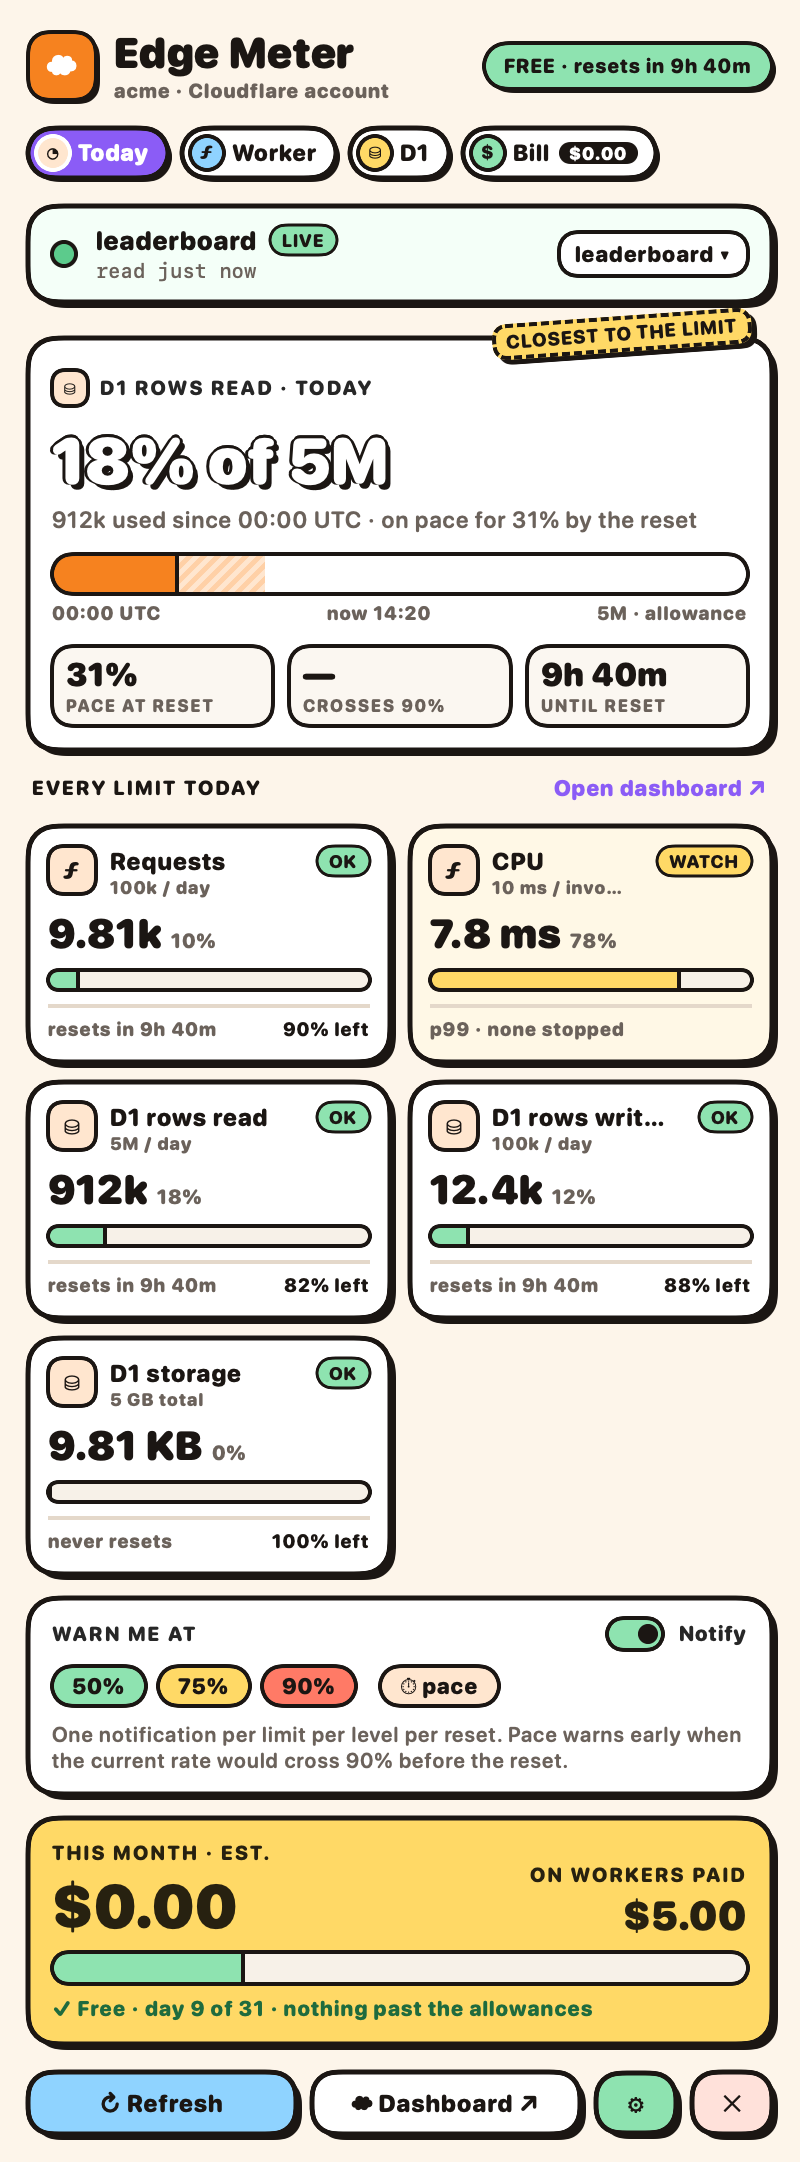
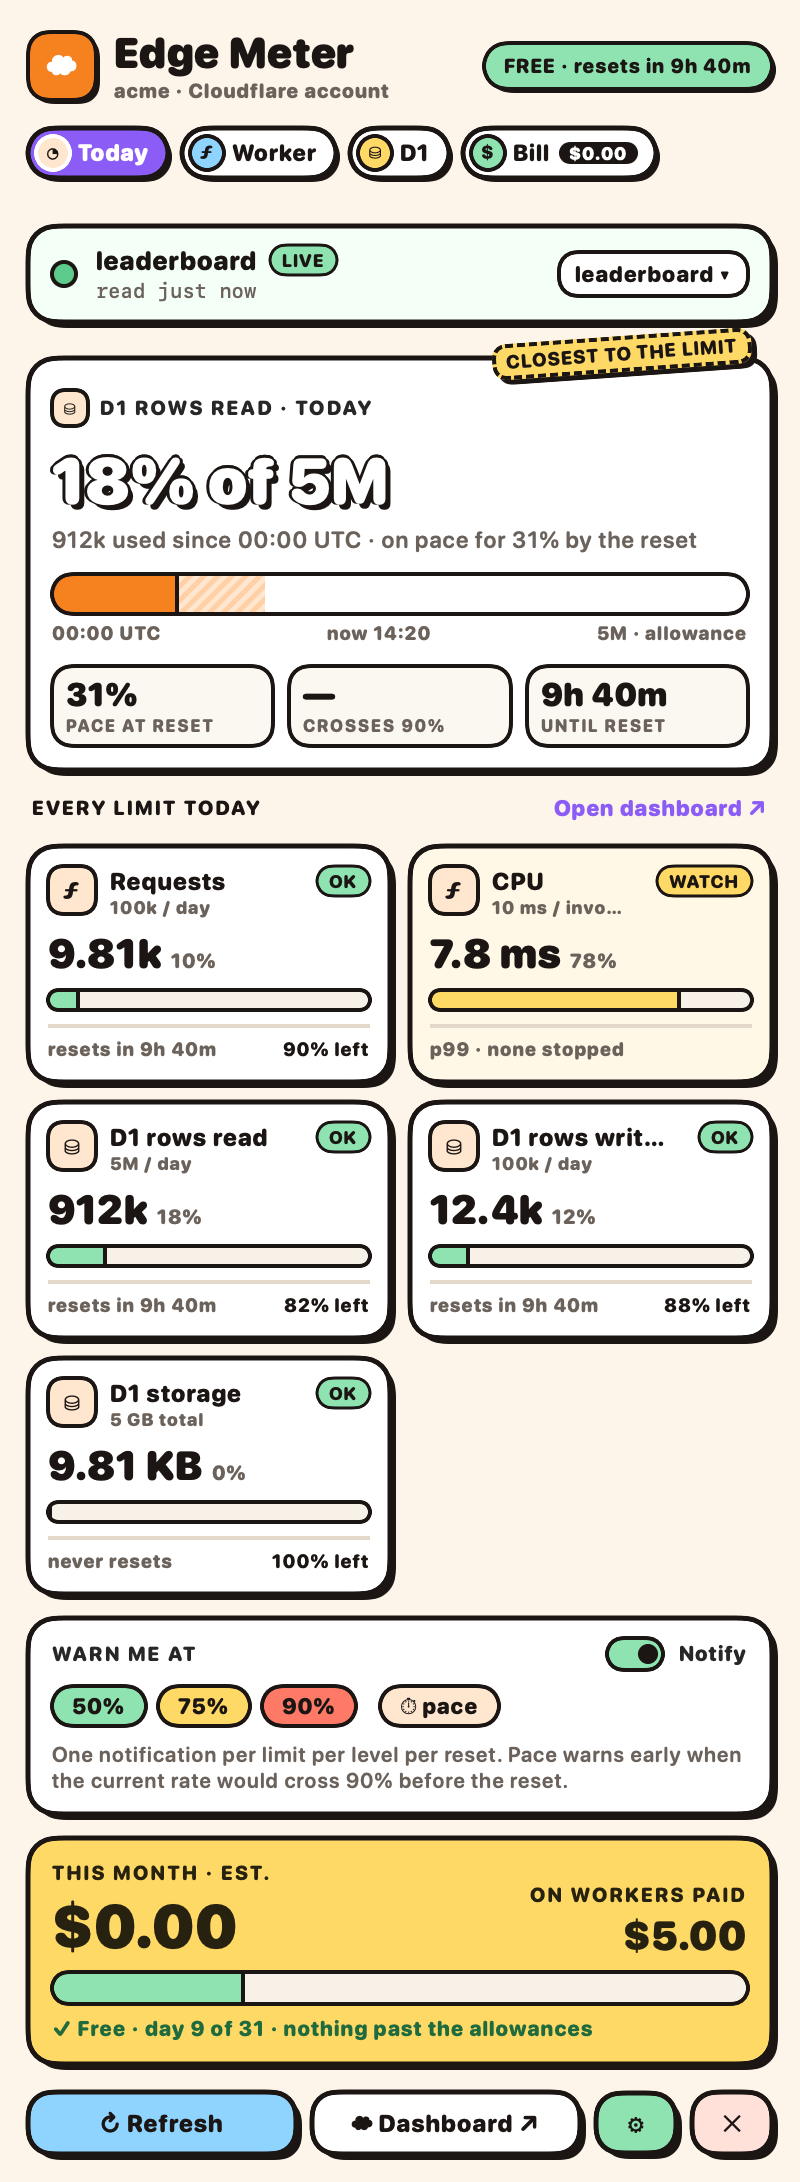
Fix: cards' outlines and shadows no longer clipped by the popover's scroll view

Changed region(s): [[0.0312, 0.031, 0.9688, 0.9917]]

diff --git a/Sources/App/EdgeMeterApp.swift b/Sources/App/EdgeMeterApp.swift
@@ -58,6 +58,9 @@ enum Snapshots {
                 if tab != "today" && tab != "bill" { await account.open(tab, at: Demo.now ?? .now) }
                 write(PopoverView(account: account, tab: tab, scrolls: false), to: folder, name: tab)
             }
+            if ProcessInfo.processInfo.environment["EDGEMETER_LIVE_SHOT"] == "1" {
+                await writeLive(PopoverView(account: account), to: folder, name: "today")
+            }
             let fresh = try! Account(services: .builtIns(), plans: .builtIns(), analytics: DemoCloudflare(), billing: DemoCloudflare(),
                                      vault: MemoryVault(token: nil), settings: MemorySettings(Settings()), notifier: SilentNotifier())
             write(PopoverView(account: fresh, scrolls: false), to: folder, name: "connect")
@@ -68,6 +71,22 @@ enum Snapshots {
             write(PopoverView(account: refused, scrolls: false), to: folder, name: "connect-refused")
             NSApplication.shared.terminate(nil)
         }
+    }
+
+    /// The popover as it really draws, scroll view included, from an offscreen window.
+    static func writeLive(_ view: some View, to folder: String, name: String) async {
+        let host = NSHostingView(rootView: view)
+        let window = NSWindow(contentRect: NSRect(x: -3000, y: 0, width: 400, height: 900), styleMask: [.borderless],
+                              backing: .buffered, defer: false)
+        window.contentView = host
+        host.frame.size = host.fittingSize
+        window.setContentSize(host.fittingSize)
+        window.orderFrontRegardless()
+        try? await Task.sleep(for: .seconds(1.5))
+        guard let rep = host.bitmapImageRepForCachingDisplay(in: host.bounds) else { return }
+        host.cacheDisplay(in: host.bounds, to: rep)
+        try? rep.representation(using: .png, properties: [:])?.write(to: URL(fileURLWithPath: folder).appending(path: "live-\(name).png"))
+        window.orderOut(nil)
     }
 
     static func write(_ view: some View, to folder: String, name: String) {

diff --git a/Sources/App/PopoverView.swift b/Sources/App/PopoverView.swift
@@ -134,16 +134,18 @@ struct CappedScroll<Content: View>: View {
 
     var body: some View {
         if maxHeight == .infinity {
-            content    // screenshots: ImageRenderer draws nothing inside a ScrollView
+            content.padding(.top, 10)    // screenshots: ImageRenderer draws nothing inside a ScrollView
         } else {
-            scroll
+            scroll.padding(.leading, -2).padding(.top, -10)
         }
     }
 
     private var scroll: some View {
         ScrollView(.vertical) {
             content
-                .padding(.trailing, 4).padding(.bottom, 4)
+                // Room for the cards' outlines and hard shadows, which reach past their frames
+                // and a ScrollView clips: 2.5 pt strokes, 3 pt shadows, the tilted sticker.
+                .padding(.leading, 2).padding(.top, 12).padding(.trailing, 5).padding(.bottom, 6)
                 .background(GeometryReader { geometry in
                     Color.clear.onAppear { height = geometry.size.height }
                         .onChange(of: geometry.size.height) { _, new in height = new }
